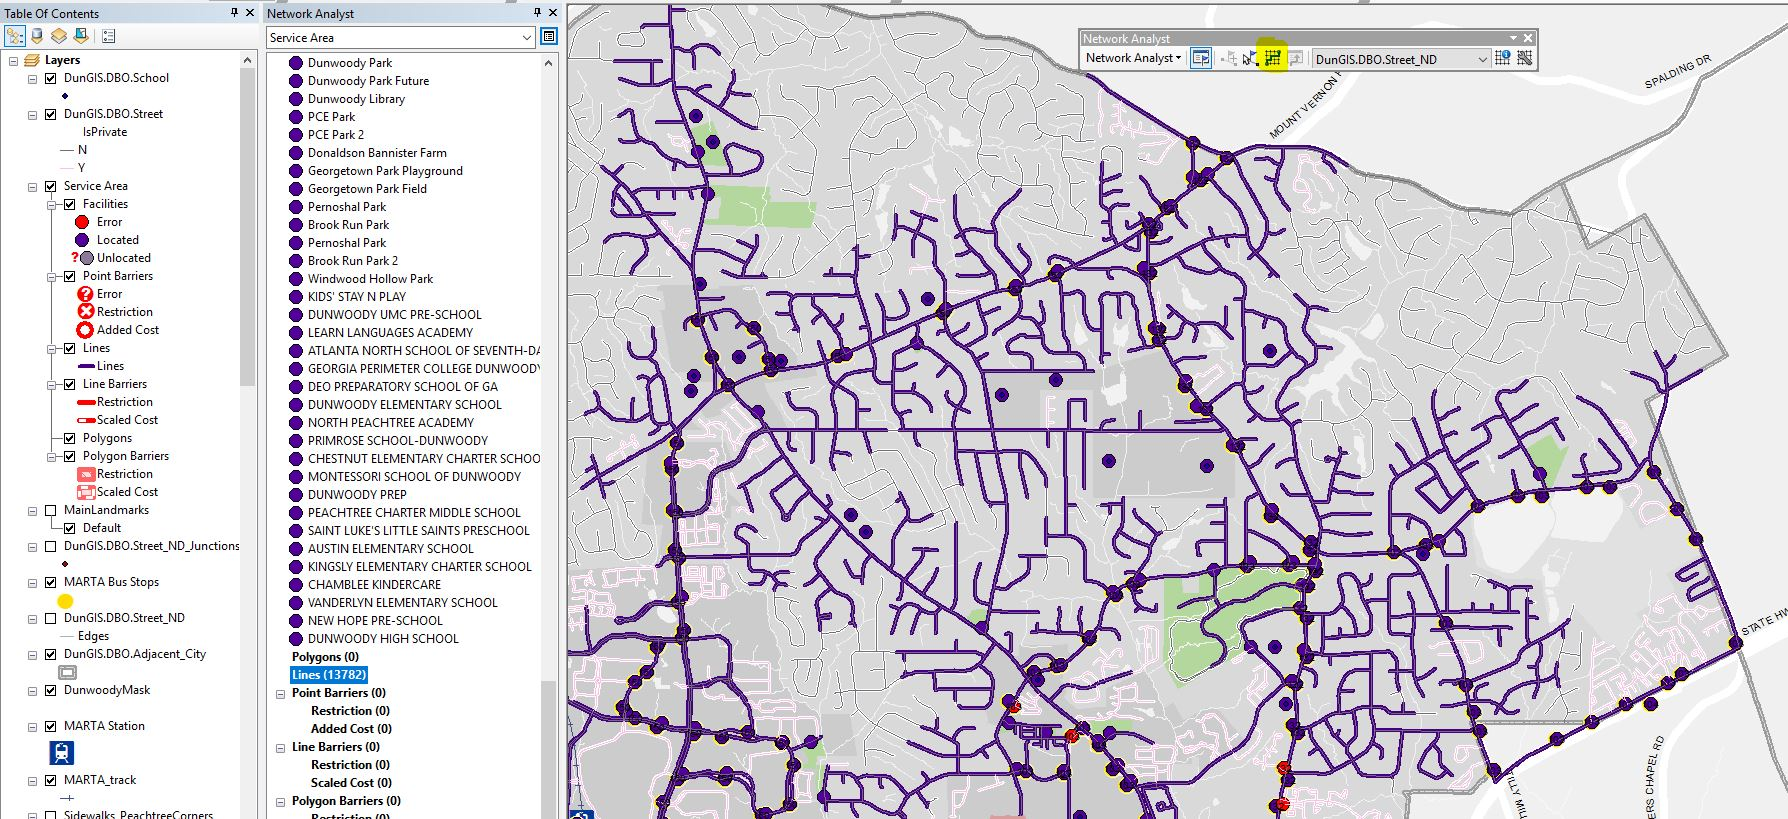
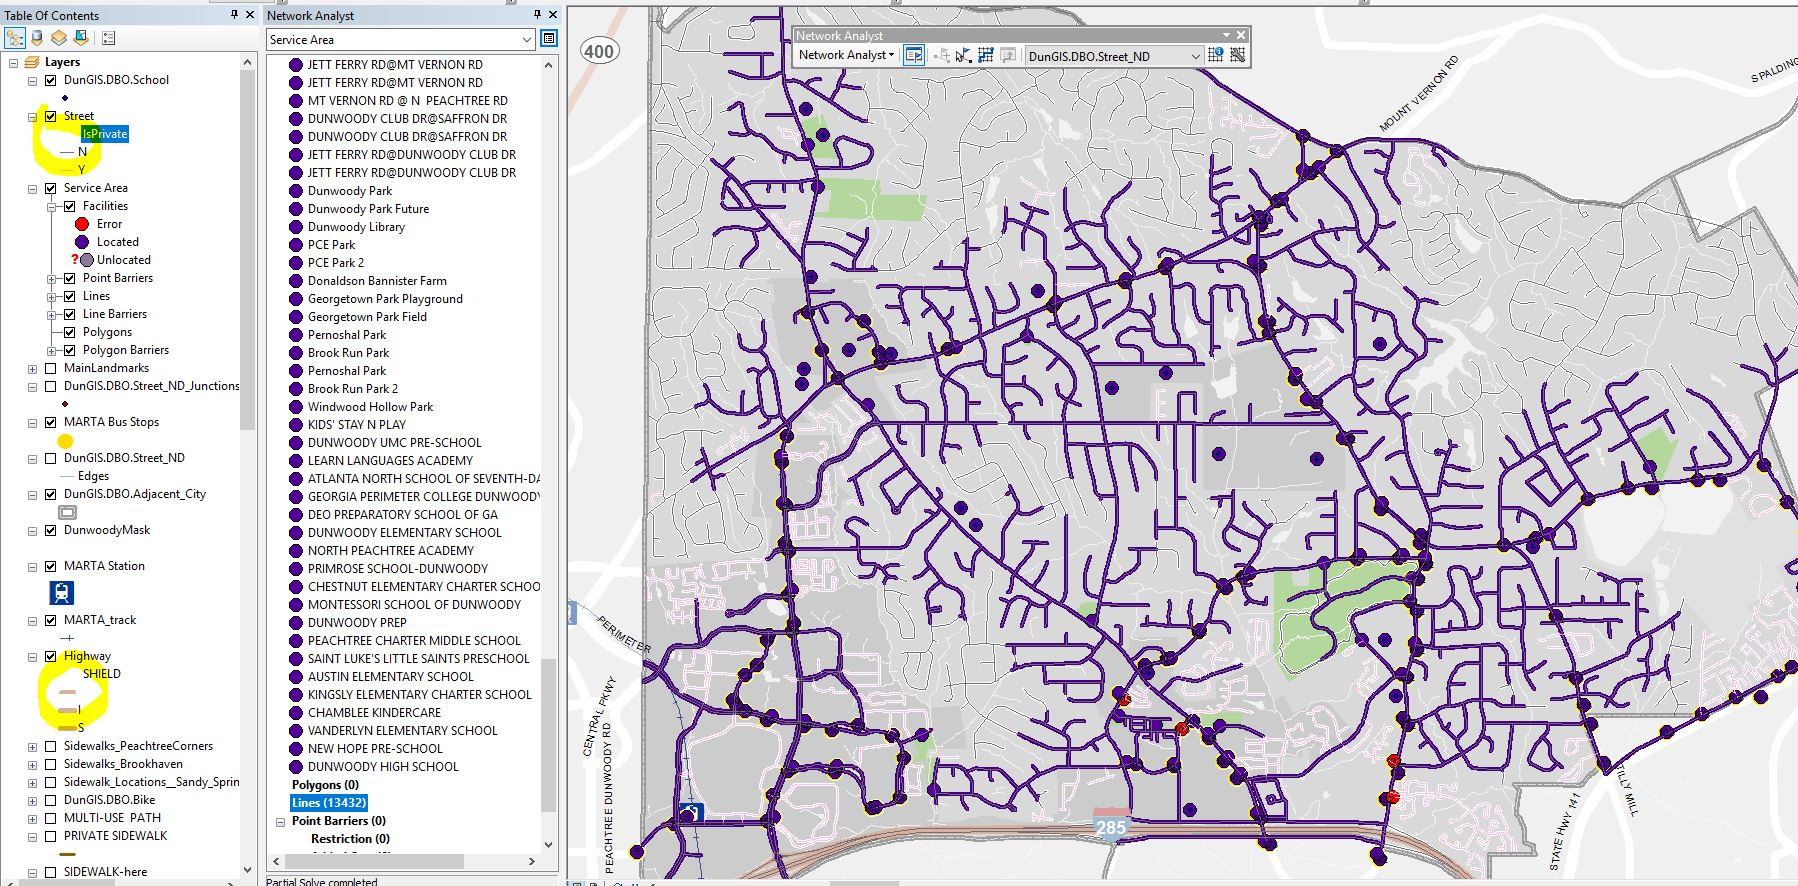
new solve highway restriction added

diff --git a/NetworkAnalysis/NA.md b/NetworkAnalysis/NA.md
@@ -59,6 +59,21 @@ Call the function in the box Value = `AvoidPrivate(!IsPrivate!)`<br><br>
 <img src="https://github.com/akell47/GIS/blob/master/NetworkAnalysis/images/AvoidPrivate.JPG"
 width="700" height="430"/><br>
 <br>
+Alternatively you can make a field with multiple categories return a Boolean statement. I modified the restriction off an existing attribute which has the Street classifications to restrict highways, interstate ramps, and private roads. When you go back and modify the attributes in the network dataset, right click the Network Dataset feature in the Feature Dataset and click build to implement the changes. You do not need to re-add the network dataset in ArcMap.
+Pre-Logic Script Code in Python:
+```
+def Avoid(field):
+    if field in ('Interstate Principal Arterial'):
+        restricted = True
+    elif field in ('Interstate Ramp'):
+        restricted = True
+    elif field in ('Private'):
+        restricted = True
+    else:
+        restricted = False
+    return restricted
+```
+
 - Add walkMinutes, Usage Type: Cost, Units: minutes<br>
 
 - Add Func_Class, Usage Type: Hierarchy <br>
@@ -74,7 +89,10 @@ Going to create a half-mile walking distance around Marta Bus stops, Libraries, 
 Open ArcMap <br>
 Make sure Network Analyst extension is check marked. Customize > Extensions <br>
 From Catalog tree, drag and drop Network Dataset into the map > Click Yes for Do you also want to add all feature classes that participate in Street_ND to the map. <br>
+Before running anything, you can use the identify tool to make sure that the restrictions are set properly. In the identify tool select the Network Dataset layer under the Identify from drop down. Select some streets to test the restrictors were coded correctly.
 Open Network Analyst toolbar > Network Analyst Drop Down > Click New Service Area > Click the icon with the square and the flag to open the Network Analyst window. <br>
+Identify: <img src="https://github.com/akell47/GIS/blob/master/NetworkAnalysis/images/Identify.JPG"
+width="400" height="330"/><br>
 Before you Load Locations, Click the little square button in the upper right corner of the Network Analyst window to open the Layer Properties window.  Under the Network Locations tab set the Name Property so when you Load Locations they will have names that make sense. Under Candidate Fields type the field name you want to label the locations with. <br>
 <img src="https://github.com/akell47/GIS/blob/master/NetworkAnalysis/images/LocationNames.JPG"
 width="600" height="470"/><br>
@@ -91,3 +109,4 @@ Set the settings for Lines and or Polygon Generation. I want to create lines ins
 <br>
 <img src="https://github.com/akell47/GIS/blob/master/NetworkAnalysis/images/NA_solve.JPG"
 width="1000" height="480"/><br>
+Notice that the Network Analyst Service Area Lines were not created on Private roads or Highways!
